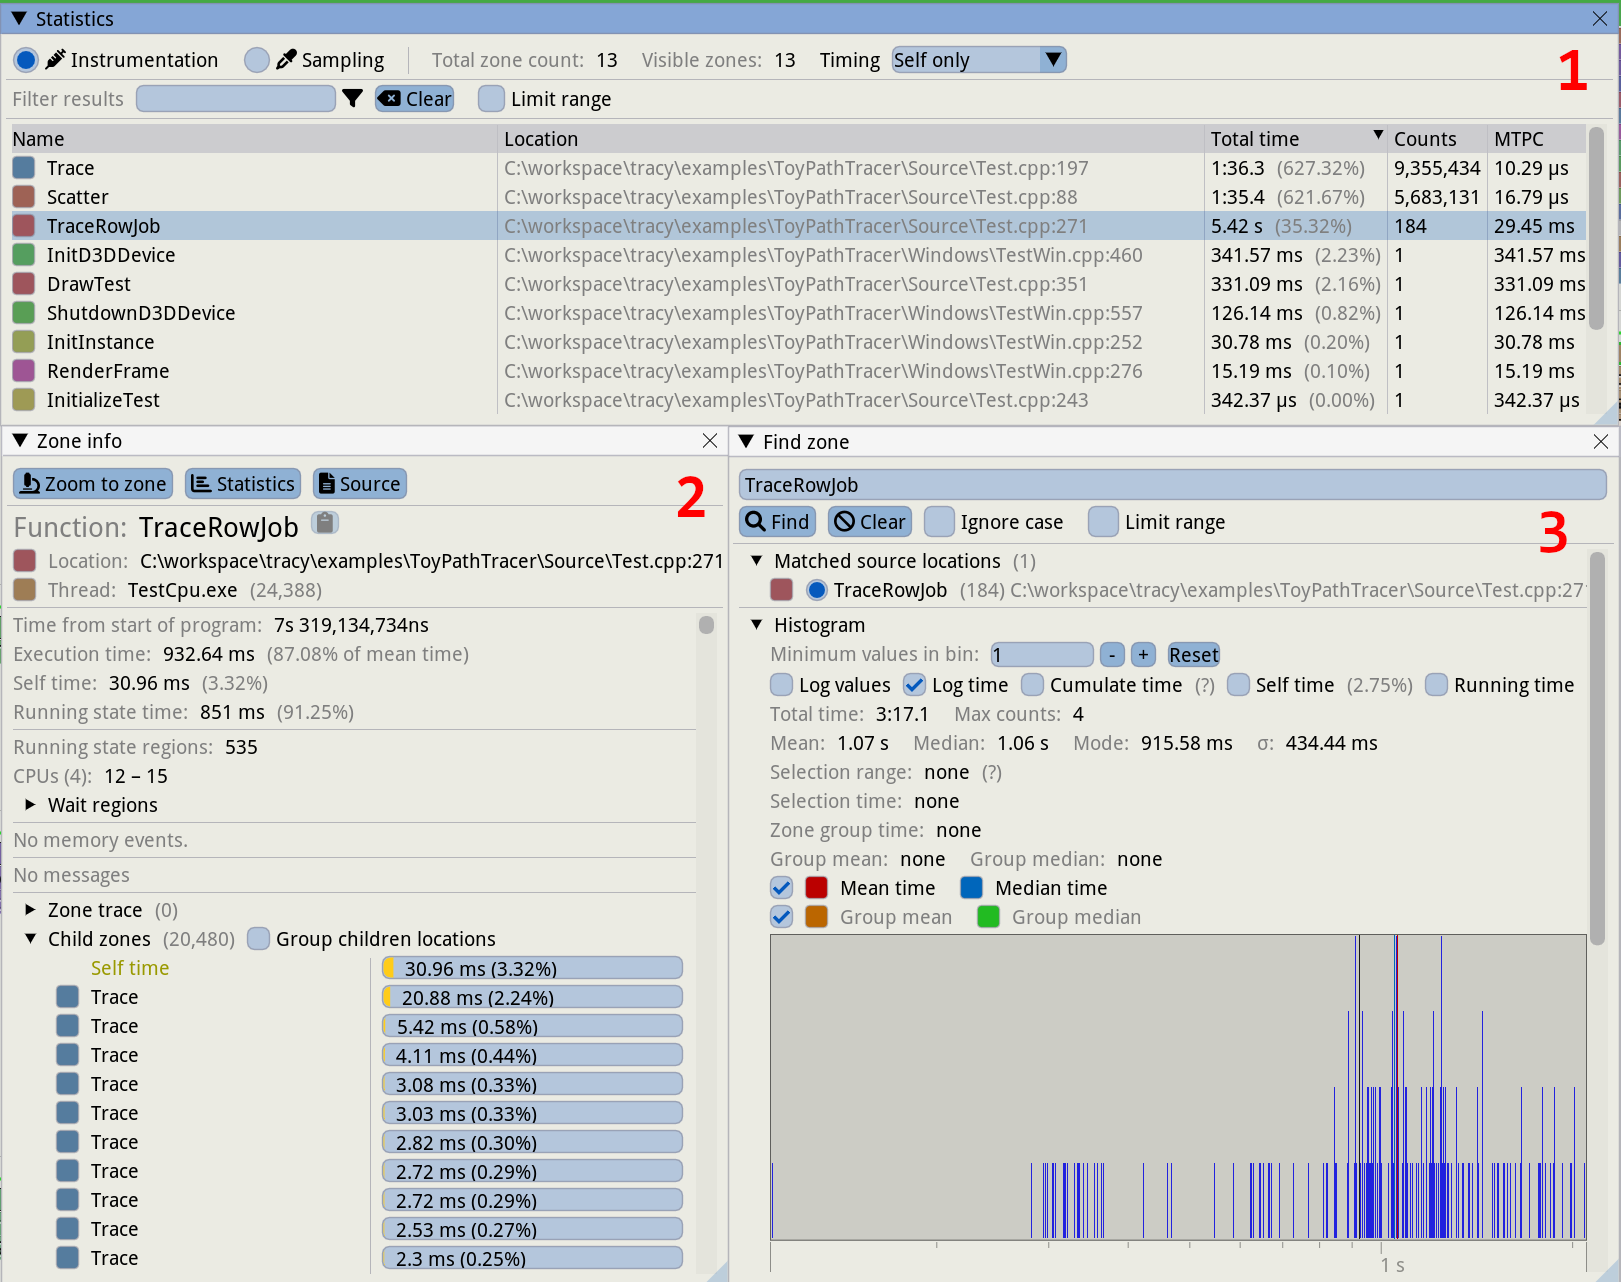
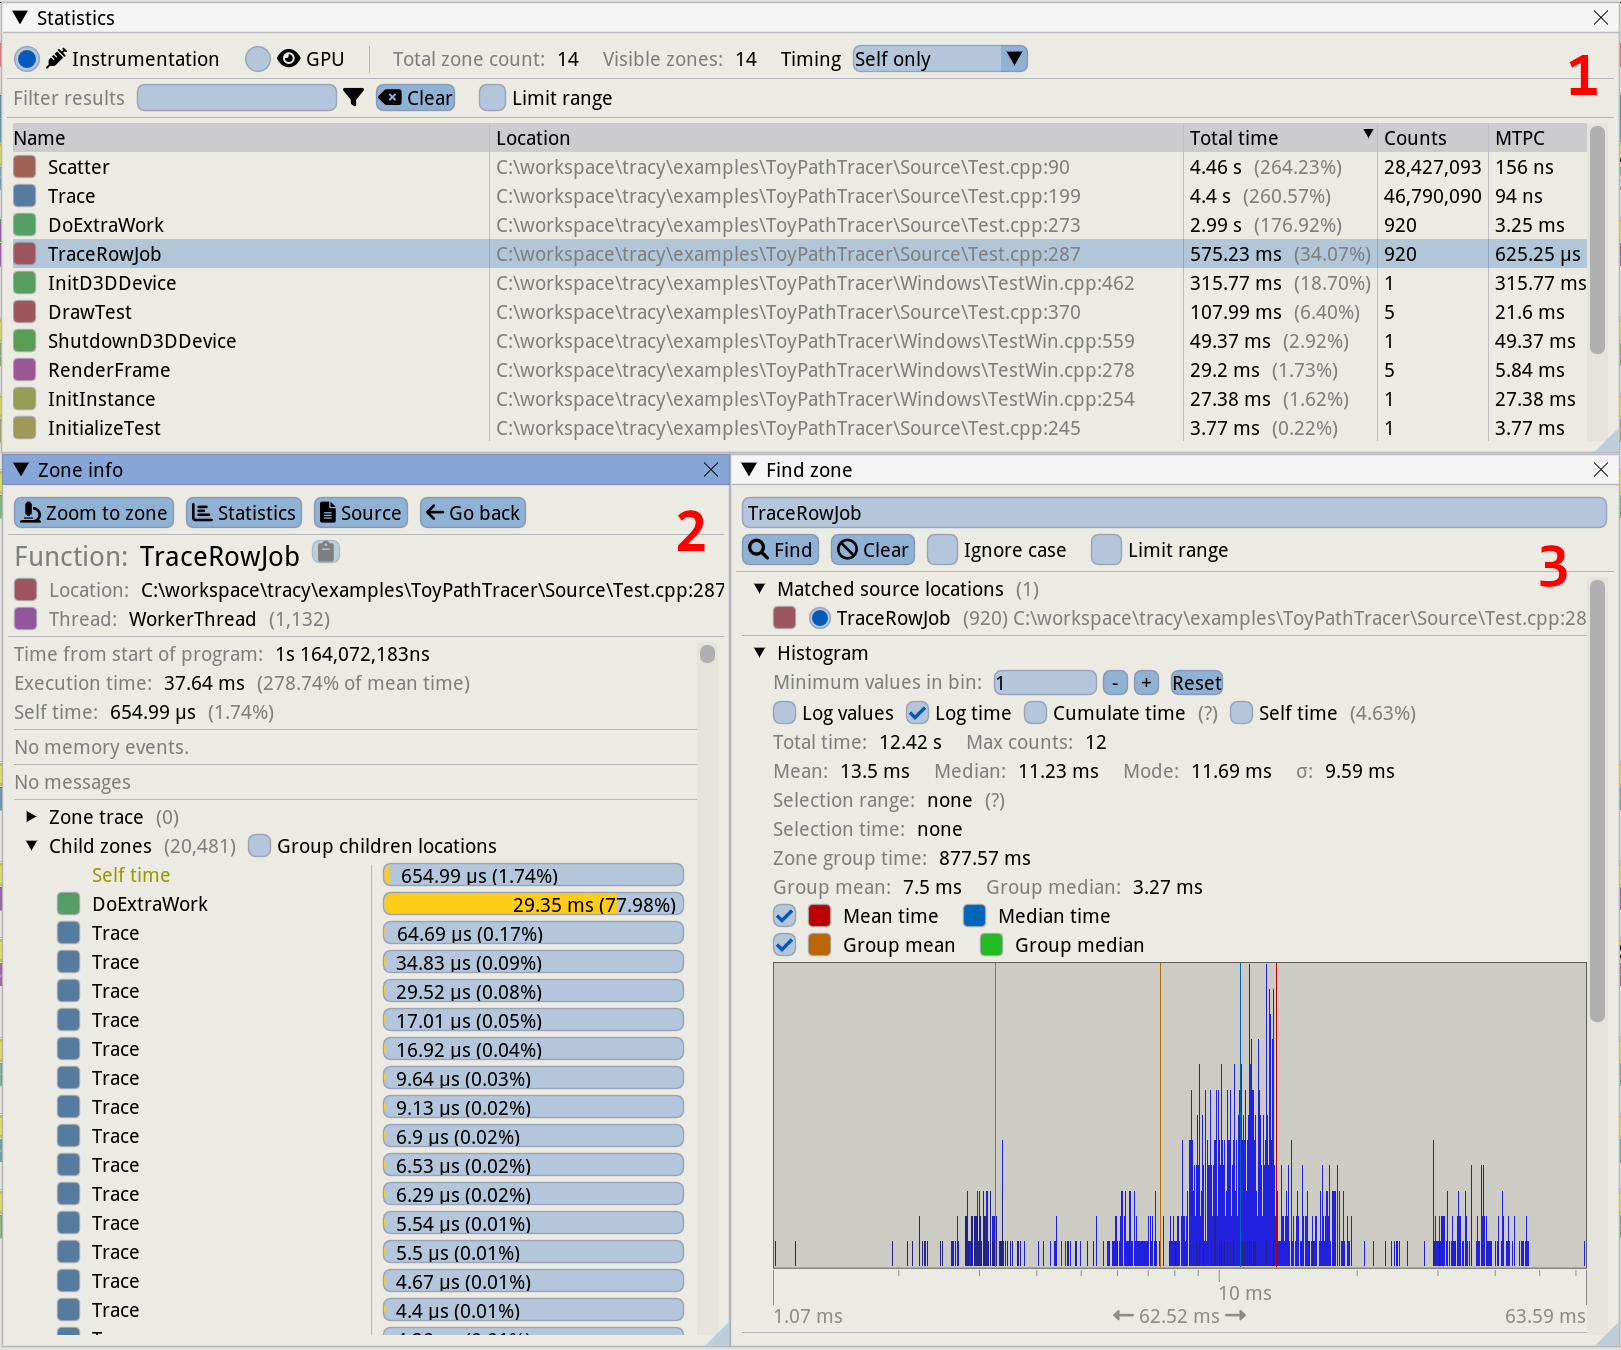
Modified screenshots to include slow zone description

Changed region(s): [[0.0, 0.0, 1.0, 1.0]]

diff --git a/chapters/8-Overview-Of-Performance-Analysis-Tools/8-7 Tracy.md b/chapters/8-Overview-Of-Performance-Analysis-Tools/8-7 Tracy.md
@@ -33,9 +33,9 @@ Tracy has two operation modes: it can store all the timing data until the profil
 
 The profiler is a separate application that connects to a running application to capture and display the live profiling data, aka the "flight recorder" mode. The profiler can be run on a separate machine so that it doesn't interfere with the running application. Note, however, that this doesn't mean that the runtime overhead caused by the instrumentation code disappears - it is still there, but the overhead of visualizing the data is avoided in this case.
 
-Tracy graphical interface is quite rich, unfortunately too hard to fit on a single screenshot, so we break it down into pieces. Figure @fig:Tracy_Main_View shows a timeline view when profiling the code in [@lst:TracyInstrumentation]. It shows the graph for all the zones that were active during a given frame. In the image we can see the Main Thread and 4 worker threads (TestCpu.exe). All threads, including the main thread, are performing work to advance progress in rendering the final image. In this example, each thread processes a row of pixels inside the `TraceRowJob` zone. The `TraceRowJob` zone contains many smaller zones, whose name cannot be displayed in the profiler. When this happens, Tracy collapses the small zones and only shows the number of active zones - this is what `20,480` stands for under the first `TraceRowJob` in the Main Thread.
+Tracy graphical interface is quite rich, unfortunately too hard to fit on a single screenshot, so we break it down into pieces. Figure @fig:Tracy_Main_View shows a timeline view when profiling the code in [@lst:TracyInstrumentation]. It shows the graph for all the zones that were active during a given frame. In the image we can see the Main Thread and 4 worker threads (WorkerThread). All threads, including the main thread, are performing work to advance progress in rendering the final image. In this example, each thread processes a row of pixels inside the `TraceRowJob` zone. The `TraceRowJob` zone contains many smaller zones, whose name cannot be displayed in the profiler. When this happens, Tracy collapses the small zones and only shows the number of active zones - this is what `20,481` stands for under the first `TraceRowJob` in the Main Thread.
 
-![Tracy main timeline view](../../img/tracy/profiler_main_crop.png){#fig:Tracy_Main_View width=100%}
+![Tracy main timeline view](../../img/tracy/profiler_main_crop_3.png){#fig:Tracy_Main_View width=100%}
 
 Right above the main panel, there is a histogram that displays the times for all the recorded frames, see figure @fig:Tracy_Frame_Time_View. It makes it easier to spot a long running frame that could cause stutter. It's not hard to spot a frame in the middle that takes twice as much time as an average frame.
 
@@ -55,7 +55,7 @@ The next image shows the views that provide more details about where your progra
 
 In the Statistics window (1) we can analyze the statistics for the data recorded, including the total time a given function function was active, how many times it was invoked, etc. It's also possible to select a time range in the main view an analyze the statistics only for that time interval.
 
-The Zone Info window (2) shows the details for a zone and how much of the execution time is due to the zone itself or its children. In this example, execution of the `TraceRowJob` function itself (without it's callees) in the current zone takes only 30.96 ms, which is 3.32% of the whole zone. The time for the zone including the child zones is 932.64 ms. This view also shows the source file and line of code where the zone starts.
+The Zone Info window (2) shows the details for a zone and how much of the execution time is due to the zone itself or its children. In this example, execution of the `TraceRowJob` function itself (without it's callees) in the current zone takes only 654.99 us, which is 1.74% of the whole zone. The time for the zone including the child zones is 37.64 ms. This view also shows the source file and line of code where the zone starts. We can also see that in some instances there is a call to DoExtraWork that takes a long time to execute. In this view we can see that it took 29.35 ms for it to complete. We can click on the DoExtraWork row in the Child Zones section of this view. This will update the Zone Info view with the details of the slow zone so that we can inspect the data and try to understand what caused the performance issue.
 
 Clicking on the "Statistics" button will display the Find Zone window (3). Here we can see the time histogram for a zone. This is particularly useful to determine how much variation there is when executing a function. From this view you can select one of the slow zones. This will update the Zone Info window (2) with the details of that zone instance and by clicking the "Zoom To zone" button, the main window will focus on this slow zone. This information should should help you root cause the performance issue. The Find Zone window (3) also provides other data points, including the mean, median and standard deviation for the inspected zone.
 
